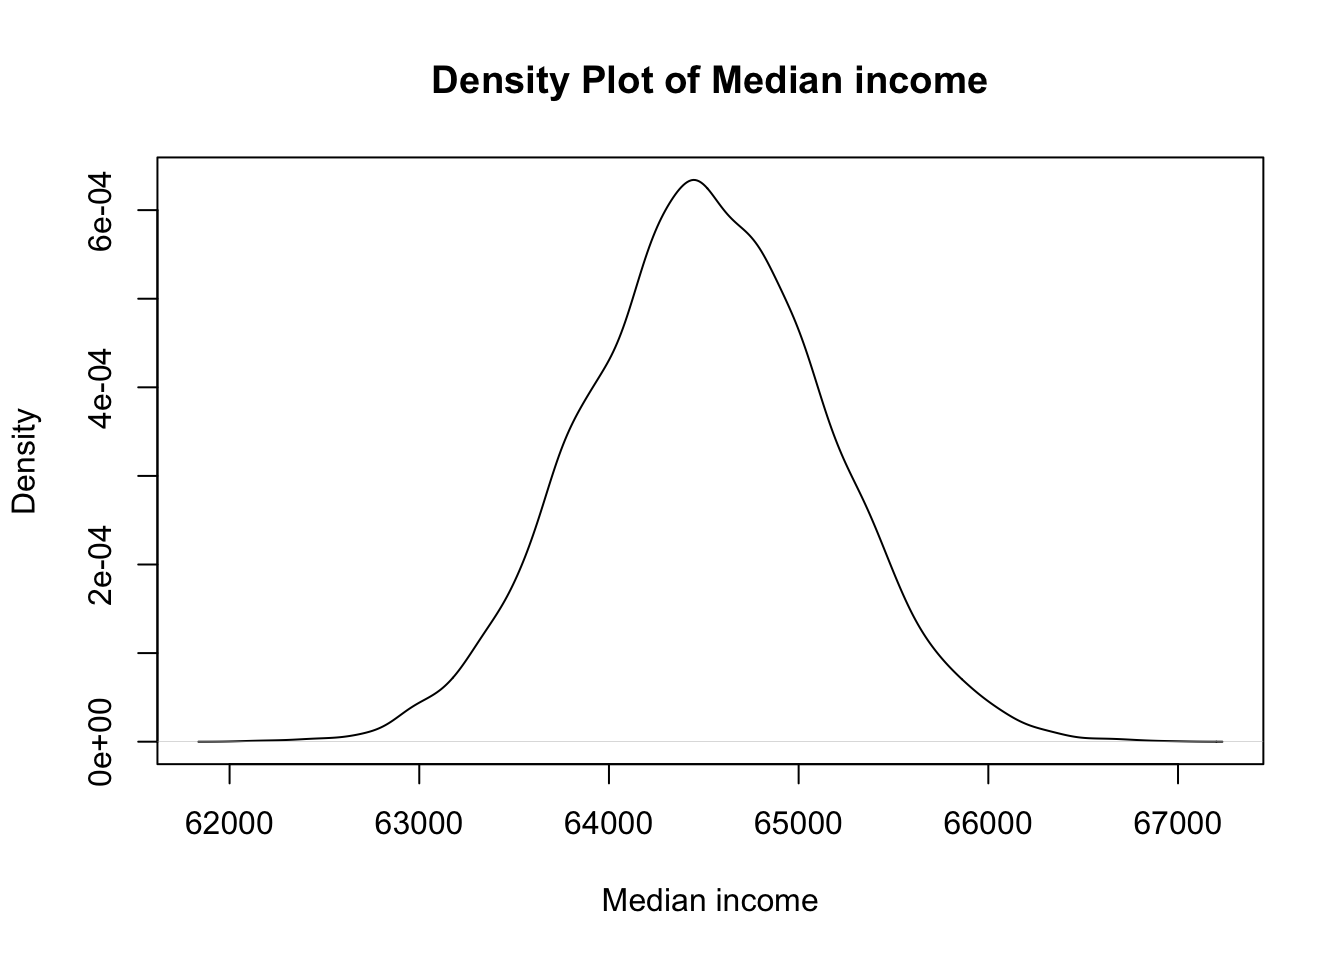
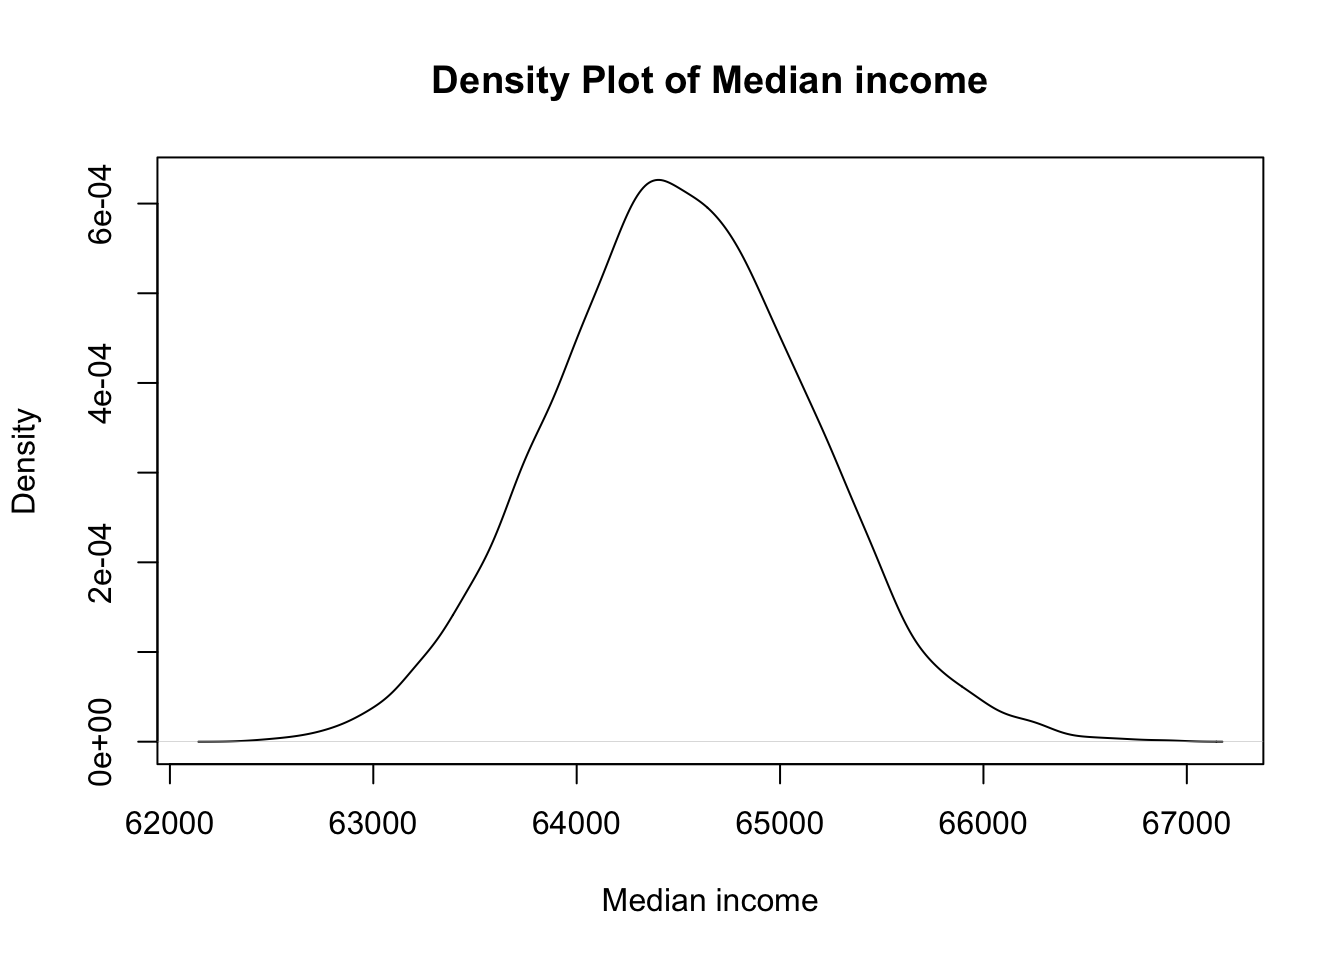
812243 link fragility

diff --git a/docs/posts/montecarlo.html b/docs/posts/montecarlo.html
@@ -1983,7 +1983,7 @@ Income distribution is not normal
 </details>
 <div class="cell-output cell-output-stdout">
 <pre><code>     Min.   1st Qu.    Median      Mean   3rd Qu.      Max. 
-   211030    296021    343056    532323    435883 142890413 </code></pre>
+2.128e+05 2.968e+05 3.442e+05 8.640e+05 4.358e+05 1.738e+09 </code></pre>
 </div>
 <details open="" class="code-fold">
 <summary>Code</summary>
@@ -1991,7 +1991,7 @@ Income distribution is not normal
 </details>
 <div class="cell-output cell-output-stdout">
 <pre><code>   Min. 1st Qu.  Median    Mean 3rd Qu.    Max. 
-  62109   64080   64501   64507   64941   66960 </code></pre>
+  62413   64079   64501   64510   64937   66902 </code></pre>
 </div>
 <details open="" class="code-fold">
 <summary>Code</summary>
@@ -1999,7 +1999,7 @@ Income distribution is not normal
 </details>
 <div class="cell-output cell-output-stdout">
 <pre><code>     Min.   1st Qu.    Median      Mean   3rd Qu.      Max. 
-1.010e+06 3.357e+06 5.588e+06 2.380e+07 1.178e+07 1.422e+10 </code></pre>
+1.000e+06 3.360e+06 5.687e+06 5.703e+07 1.176e+07 1.737e+11 </code></pre>
 </div>
 </div>
 </section>

diff --git a/docs/Biomedical/Research Methodology/wrangling.html b/docs/Biomedical/Research Methodology/wrangling.html
@@ -3277,12 +3277,12 @@ Record
 <div class="cell-output cell-output-stdout">
 <pre><code>     age   sex  class
    &lt;int&gt; &lt;int&gt; &lt;fctr&gt;
-1:     1     0  child
+1:     1     1  child
 2:     2     1  child
-3:     3     0  child
-4:     4     1  child
-5:     5     0  child
-6:     6     0  child</code></pre>
+3:     3     1  child
+4:     4     0  child
+5:     5     1  child
+6:     6     1  child</code></pre>
 </div>
 </div>
 <section id="making-data-wide" class="level3">
@@ -3300,12 +3300,12 @@ Record
 <pre><code>Key: &lt;age&gt;
      age      0      1
    &lt;int&gt; &lt;fctr&gt; &lt;fctr&gt;
-1:     1  child   &lt;NA&gt;
+1:     1   &lt;NA&gt;  child
 2:     2   &lt;NA&gt;  child
-3:     3  child   &lt;NA&gt;
-4:     4   &lt;NA&gt;  child
-5:     5  child   &lt;NA&gt;
-6:     6  child   &lt;NA&gt;</code></pre>
+3:     3   &lt;NA&gt;  child
+4:     4  child   &lt;NA&gt;
+5:     5   &lt;NA&gt;  child
+6:     6   &lt;NA&gt;  child</code></pre>
 </div>
 </div>
 

diff --git a/docs/posts/hiit.html b/docs/posts/hiit.html
@@ -1904,7 +1904,7 @@ cookieconsent.run({
 <p>Studies suggest that SIT can produce improvements in:</p>
 <ul>
 <li><p><strong>Aerobic Power:</strong> Comparable to traditional endurance training.</p></li>
-<li><p><strong>Metabolic Function:</strong> Enhances energy efficiency and metabolic health.</p></li>
+<li><p><strong>Metabolic Function:</strong> <a href="https://www.knotes.co.in/posts/fragility">Enhances energy efficiency and metabolic health</a>.</p></li>
 </ul>
 <p>SIT provides an efficient alternative to traditional endurance training while maintaining similar physiological benefits. <code>SIT has garnered considerable attention as a time-efficient and alternative method for enhancing aerobic performance and metabolic function</code><span class="citation" data-cites="Sloth2013">(<a href="#ref-Sloth2013" role="doc-biblioref">Sloth et al. 2013</a>)</span>.</p>
 </section>

diff --git a/docs/posts.html b/docs/posts.html
@@ -1924,7 +1924,7 @@ Categories
 <span class="listing-categories">medicine</span>
 </td>
 </tr>
-<tr data-index="1" data-categories="bWVkaWNpbmU=" data-listing-date-sort="1733596200000" data-listing-file-modified-sort="1733654098829" data-listing-date-modified-sort="NaN" data-listing-reading-time-sort="3" data-listing-word-count-sort="592" data-listing-title-sort="What is Interval Training?" data-listing-filename-sort="hiit.qmd">
+<tr data-index="1" data-categories="bWVkaWNpbmU=" data-listing-date-sort="1733596200000" data-listing-file-modified-sort="1733654888959" data-listing-date-modified-sort="NaN" data-listing-reading-time-sort="3" data-listing-word-count-sort="592" data-listing-title-sort="What is Interval Training?" data-listing-filename-sort="hiit.qmd">
 <td>
 <span class="listing-date">Dec 8, 2024</span>
 </td>
